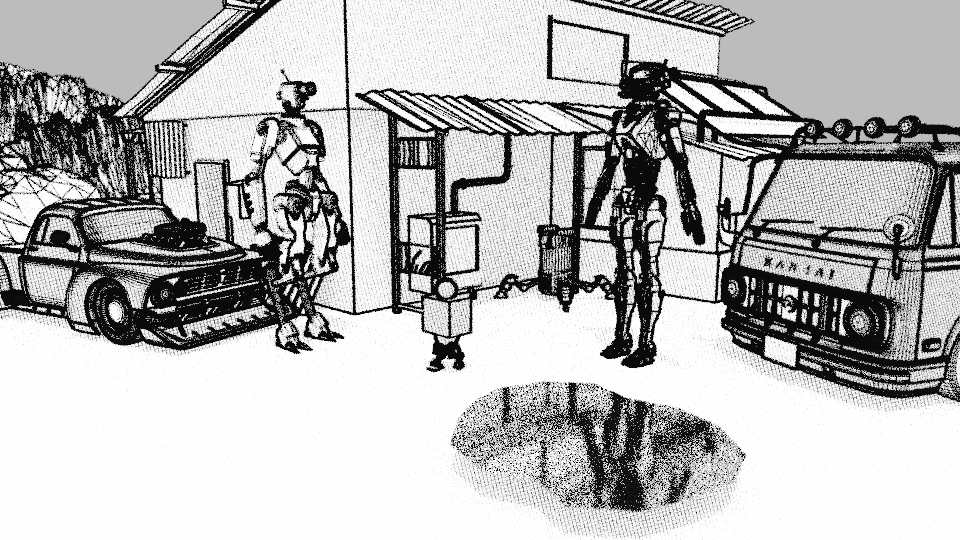
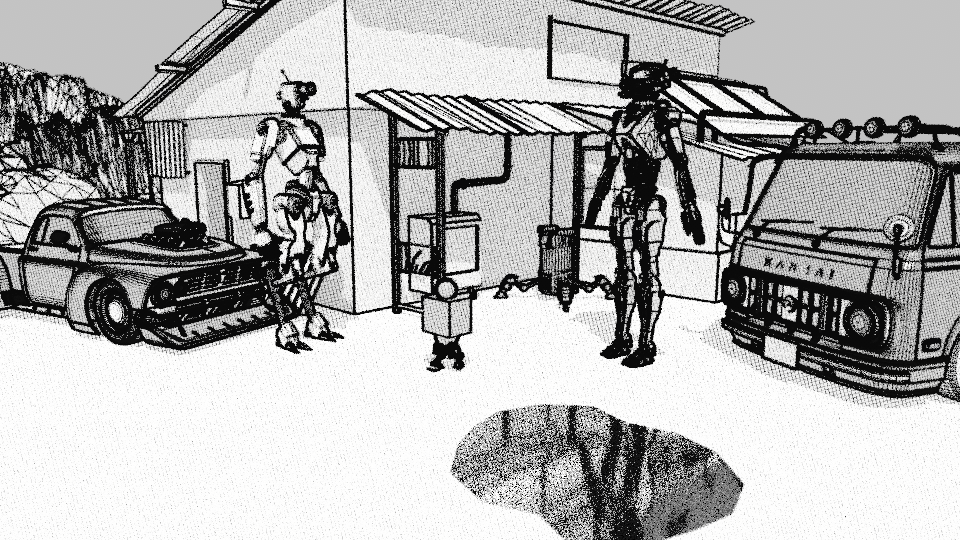
feat:优化fig1

diff --git a/SRE/tests/test_tone_mapping.py b/SRE/tests/test_tone_mapping.py
@@ -209,8 +209,8 @@ def test_fig1_combines_geometric_normal_lines_and_mls_tone_mapping() -> None:
     assert config.lighting_style.enabled
     assert config.lighting_style.emission.thresholds == (0.25, 0.80)
     assert config.lighting_style.reflected.thresholds == (0.20, 0.70)
-    assert config.lighting_style.primary_distance_gain(6.0) == 1.10
-    assert config.lighting_style.primary_distance_gain(14.0) == 0.86
+    assert config.lighting_style.primary_distance_gain(10.0) == 1.08
+    assert config.lighting_style.primary_distance_gain(20.0) == 0.72
     assert all(
         line.measurement == "normal" for line in config.feature_lines.types
     )
@@ -235,7 +235,7 @@ def test_fig1_combines_geometric_normal_lines_and_mls_tone_mapping() -> None:
     assert len(default_hatch.angles_degrees) == 2
     assert default_hatch.min_coverage == 0.008
     assert default_hatch.max_coverage == 0.26
-    assert default_hatch.shadow_strength == 0.10
+    assert default_hatch.shadow_strength == 0.32
     small_robot = config.materials["mat-lambert6"].estimator.function
     np.testing.assert_allclose(
         small_robot.activation_thresholds, [0.30, 0.60]
@@ -254,6 +254,19 @@ def test_fig1_combines_geometric_normal_lines_and_mls_tone_mapping() -> None:
         rear_robot_shell.activation_thresholds, [0.42, 0.70]
     )
     assert rear_robot_shell.max_coverage == 0.24
+    for vehicle_material in (
+        "mat-body_two_mat",
+        "mat-body_one_mat",
+        "mat-body_two_mat.001",
+        "mat-body_one_mat.001",
+        "mat-roof_and_floor_mat",
+    ):
+        vehicle_hatch = config.materials[vehicle_material].estimator.function
+        np.testing.assert_allclose(
+            vehicle_hatch.activation_thresholds, [0.24, 0.54]
+        )
+        assert vehicle_hatch.max_value == 0.68
+        assert vehicle_hatch.shadow_strength == 0.34
 
 
 def test_fig1_tone_hatches_use_three_brightness_bands() -> None:
@@ -292,3 +305,34 @@ def test_fig1_robot_thigh_panels_keep_their_original_material() -> None:
     assert 'id="fig1-small-robot-torso"' in scene
     assert scene.count('id="fig1-small-robot-leg-') == 4
     assert '<bsdf type="twosided" id="mat-lambert1.001"' in scene
+
+
+def test_fig1_puddle_is_nearly_coplanar_with_ground() -> None:
+    scene = (
+        Path(__file__).resolve().parents[1]
+        / "scenes"
+        / "sre_LLaT.xml"
+    ).read_text(encoding="utf-8")
+    assert '<translate x="1.500000" y="-0.200000" z="-1.050000"/>' in scene
+    # water_puddle.ply is authored at y=0.205 and Object_72.ply at y=0.
+    # The XML translation leaves only 5 mm separation to avoid z-fighting.
+    assert "4.7100 0.2050 3.9700" in (
+        Path(__file__).resolve().parents[1]
+        / "scenes"
+        / "meshes"
+        / "water_puddle.ply"
+    ).read_text(encoding="ascii")
+
+
+def test_fig1_uses_strong_key_and_weak_environment_fill() -> None:
+    scene = (
+        Path(__file__).resolve().parents[1]
+        / "scenes"
+        / "sre_LLaT.xml"
+    ).read_text(encoding="utf-8")
+    assert '<rgb value="2.500000 2.500000 2.500000" name="irradiance"/>' in scene
+    assert '<rgb value="0.200000 0.200000 0.200000" name="radiance"/>' in scene
+    assert (
+        '<vector name="direction" x="-0.420000" y="-0.820000" '
+        'z="-0.390000"/>'
+    ) in scene

diff --git a/SRE/tests/test_lighting_style.py b/SRE/tests/test_lighting_style.py
@@ -22,14 +22,14 @@ def test_brightness_control_selects_configured_levels() -> None:
 def test_primary_distance_control_uses_smooth_foreground_background_blend() -> None:
     style = LightingStyleConfig(
         enabled=True,
-        near_distance=6.0,
-        far_distance=14.0,
-        near_gain=1.10,
-        far_gain=0.86,
+        near_distance=10.0,
+        far_distance=20.0,
+        near_gain=1.08,
+        far_gain=0.72,
     )
-    assert style.primary_distance_gain(4.0) == pytest.approx(1.10)
-    assert style.primary_distance_gain(10.0) == pytest.approx(0.98)
-    assert style.primary_distance_gain(18.0) == pytest.approx(0.86)
+    assert style.primary_distance_gain(8.0) == pytest.approx(1.08)
+    assert style.primary_distance_gain(15.0) == pytest.approx(0.90)
+    assert style.primary_distance_gain(22.0) == pytest.approx(0.72)
 
 
 def test_lighting_style_builder_ignores_documentation_fields() -> None:
